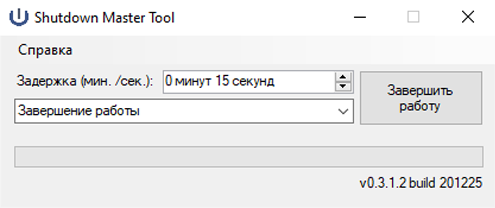
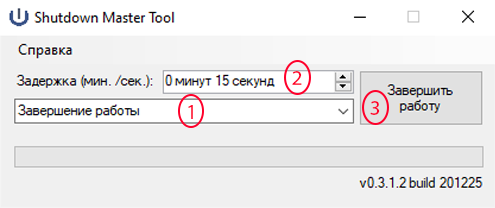
v0.3.1.4 build 211225-2 изменения:  - Доделан скриншот для help form  - Закончена help form

Changed region(s): [[0.3333, 0.4327, 0.4242, 0.6346], [0.7273, 0.4327, 0.7879, 0.6058], [0.5758, 0.2885, 0.6364, 0.4615]]

diff --git a/Shutdown Master/FormHelp.Designer.cs b/Shutdown Master/FormHelp.Designer.cs
@@ -30,30 +30,71 @@
         {
             System.ComponentModel.ComponentResourceManager resources = new System.ComponentModel.ComponentResourceManager(typeof(FormHelp));
             this.buttonOK = new System.Windows.Forms.Button();
+            this.labelHelpText = new System.Windows.Forms.Label();
             this.picturebBoxScreenshot = new System.Windows.Forms.PictureBox();
+            this.label1 = new System.Windows.Forms.Label();
+            this.label2 = new System.Windows.Forms.Label();
             ((System.ComponentModel.ISupportInitialize)(this.picturebBoxScreenshot)).BeginInit();
             this.SuspendLayout();
             // 
             // buttonOK
             // 
-            this.buttonOK.Location = new System.Drawing.Point(324, 273);
+            this.buttonOK.Anchor = ((System.Windows.Forms.AnchorStyles)((System.Windows.Forms.AnchorStyles.Bottom | System.Windows.Forms.AnchorStyles.Right)));
+            this.buttonOK.Location = new System.Drawing.Point(304, 273);
             this.buttonOK.Margin = new System.Windows.Forms.Padding(2);
             this.buttonOK.Name = "buttonOK";
-            this.buttonOK.Size = new System.Drawing.Size(56, 22);
+            this.buttonOK.Size = new System.Drawing.Size(72, 22);
             this.buttonOK.TabIndex = 0;
             this.buttonOK.Text = "Ок";
             this.buttonOK.UseVisualStyleBackColor = true;
             this.buttonOK.Click += new System.EventHandler(this.buttonOK_Click);
             // 
+            // labelHelpText
+            // 
+            this.labelHelpText.Anchor = System.Windows.Forms.AnchorStyles.Bottom;
+            this.labelHelpText.AutoSize = true;
+            this.labelHelpText.Font = new System.Drawing.Font("Microsoft Sans Serif", 9F, System.Drawing.FontStyle.Regular, System.Drawing.GraphicsUnit.Point, ((byte)(204)));
+            this.labelHelpText.Location = new System.Drawing.Point(9, 174);
+            this.labelHelpText.Name = "labelHelpText";
+            this.labelHelpText.Size = new System.Drawing.Size(200, 30);
+            this.labelHelpText.TabIndex = 2;
+            this.labelHelpText.Text = "1) Выберите режим выключения.\r\n\r\n";
+            // 
             // picturebBoxScreenshot
             // 
+            this.picturebBoxScreenshot.BorderStyle = System.Windows.Forms.BorderStyle.FixedSingle;
             this.picturebBoxScreenshot.Image = global::Shutdown_Master.Properties.Resources.programScreenshot;
             this.picturebBoxScreenshot.Location = new System.Drawing.Point(12, 12);
             this.picturebBoxScreenshot.Name = "picturebBoxScreenshot";
-            this.picturebBoxScreenshot.Size = new System.Drawing.Size(367, 164);
+            this.picturebBoxScreenshot.Size = new System.Drawing.Size(364, 153);
             this.picturebBoxScreenshot.SizeMode = System.Windows.Forms.PictureBoxSizeMode.Zoom;
             this.picturebBoxScreenshot.TabIndex = 1;
             this.picturebBoxScreenshot.TabStop = false;
+            // 
+            // label1
+            // 
+            this.label1.Anchor = System.Windows.Forms.AnchorStyles.Top;
+            this.label1.AutoSize = true;
+            this.label1.Font = new System.Drawing.Font("Microsoft Sans Serif", 9F, System.Drawing.FontStyle.Regular, System.Drawing.GraphicsUnit.Point, ((byte)(204)));
+            this.label1.Location = new System.Drawing.Point(9, 204);
+            this.label1.Name = "label1";
+            this.label1.Padding = new System.Windows.Forms.Padding(0, 12, 0, 0);
+            this.label1.Size = new System.Drawing.Size(370, 42);
+            this.label1.TabIndex = 3;
+            this.label1.Text = "3) Нажмите кнопку запуска выключения. \r\nПри нужде отменить выключение - нажмите н" +
+    "а неё повторно.";
+            // 
+            // label2
+            // 
+            this.label2.Anchor = ((System.Windows.Forms.AnchorStyles)((System.Windows.Forms.AnchorStyles.Top | System.Windows.Forms.AnchorStyles.Bottom)));
+            this.label2.AutoSize = true;
+            this.label2.Font = new System.Drawing.Font("Microsoft Sans Serif", 9F, System.Drawing.FontStyle.Regular, System.Drawing.GraphicsUnit.Point, ((byte)(204)));
+            this.label2.Location = new System.Drawing.Point(9, 189);
+            this.label2.Name = "label2";
+            this.label2.Padding = new System.Windows.Forms.Padding(0, 6, 0, 0);
+            this.label2.Size = new System.Drawing.Size(263, 21);
+            this.label2.TabIndex = 4;
+            this.label2.Text = "2) Установите таймер перед выключением.\r\n";
             // 
             // FormHelp
             // 
@@ -61,6 +102,9 @@
             this.AutoScaleMode = System.Windows.Forms.AutoScaleMode.Font;
             this.ClientSize = new System.Drawing.Size(391, 306);
             this.ControlBox = false;
+            this.Controls.Add(this.label2);
+            this.Controls.Add(this.label1);
+            this.Controls.Add(this.labelHelpText);
             this.Controls.Add(this.picturebBoxScreenshot);
             this.Controls.Add(this.buttonOK);
             this.FormBorderStyle = System.Windows.Forms.FormBorderStyle.FixedSingle;
@@ -69,9 +113,11 @@
             this.MaximizeBox = false;
             this.MinimizeBox = false;
             this.Name = "FormHelp";
+            this.StartPosition = System.Windows.Forms.FormStartPosition.CenterScreen;
             this.Text = "Shutdown Master Tool - Help";
             ((System.ComponentModel.ISupportInitialize)(this.picturebBoxScreenshot)).EndInit();
             this.ResumeLayout(false);
+            this.PerformLayout();
 
         }
 
@@ -79,5 +125,8 @@
 
         private System.Windows.Forms.Button buttonOK;
         private System.Windows.Forms.PictureBox picturebBoxScreenshot;
+        private System.Windows.Forms.Label labelHelpText;
+        private System.Windows.Forms.Label label1;
+        private System.Windows.Forms.Label label2;
     }
 }

diff --git a/Shutdown Master/FormMain.cs b/Shutdown Master/FormMain.cs
@@ -23,7 +23,7 @@ namespace Shutdown_Master
 
         public string verFormat()
         {
-            string buildDate = "201225"; // ДАТА БИЛДА
+            string buildDate = "211225-2"; // ДАТА БИЛДА
             string verString;
             Version version = Assembly.GetExecutingAssembly().GetName().Version;
             if(version.Major > 0)

diff --git a/Shutdown Master/Properties/AssemblyInfo.cs b/Shutdown Master/Properties/AssemblyInfo.cs
@@ -30,6 +30,6 @@ using System.Runtime.InteropServices;
 //      Номер сборки
 //      Редакция
 //
-[assembly: AssemblyVersion("0.3.1.3")]
-[assembly: AssemblyFileVersion("0.3.1.3")]
+[assembly: AssemblyVersion("0.3.1.4")]
+[assembly: AssemblyFileVersion("0.3.1.4")]
 [assembly: NeutralResourcesLanguage("ru")]
